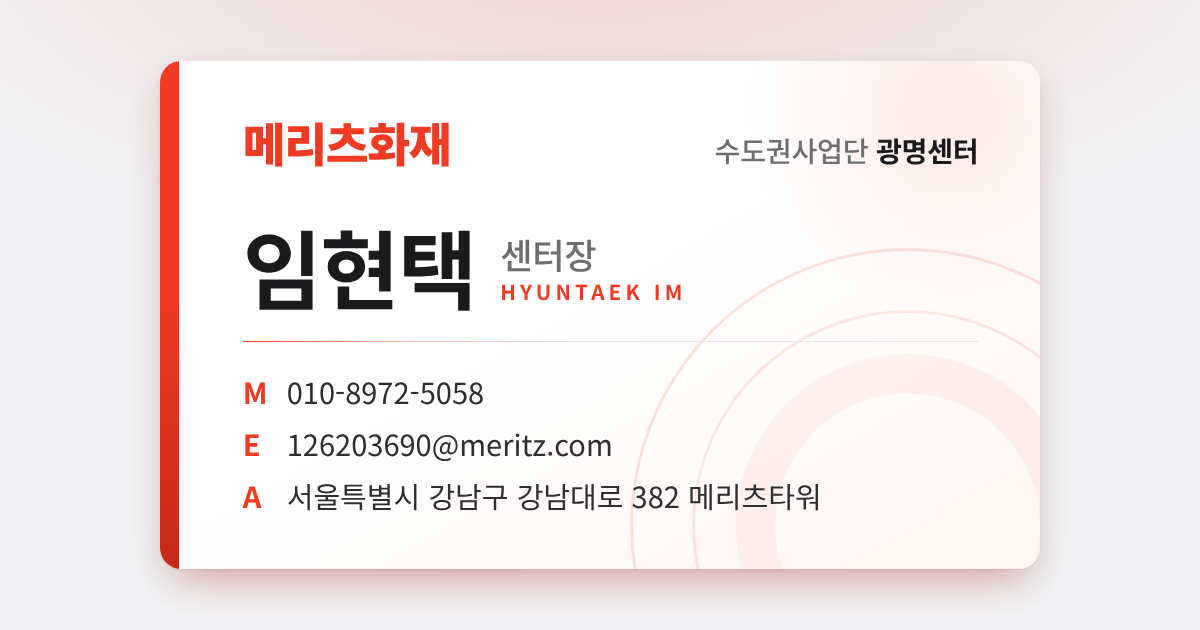
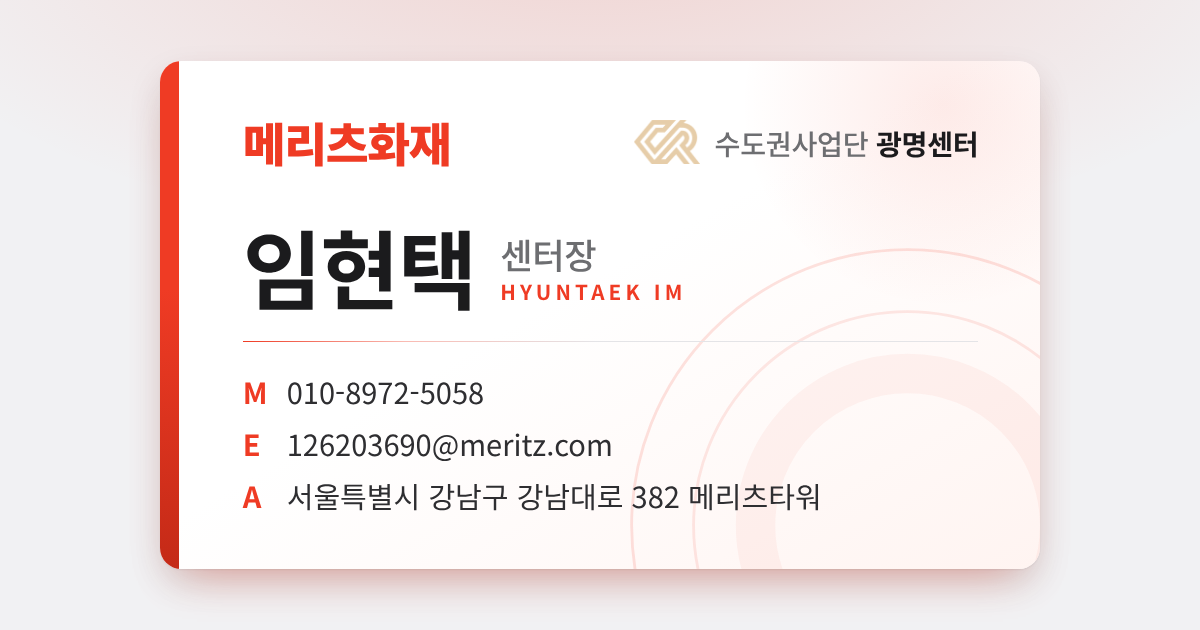
임현택 명함 앞면에 수도권사업단 마크 추가
- capital-region-mark.png: 로고에서 마크만 잘라냄
- 앞면 오른쪽 위 '수도권사업단 광명센터' 앞에 마크 배치
- 카톡 미리보기 이미지도 같이 갱신

Claude-Session: https://claude.ai/code/session_01LevLTkvcs2yUjMXfr1bqTN

Changed region(s): [[0.5242, 0.181, 0.8325, 0.2714]]

diff --git a/imhyuntaek.html b/imhyuntaek.html
@@ -113,9 +113,10 @@
     z-index: -1; pointer-events: none;
   }
 
-  .top { display: flex; justify-content: space-between; align-items: baseline; }
+  .top { display: flex; justify-content: space-between; align-items: center; }
   .brand { color: #EF3B24; font-weight: 900; font-size: 5.3cqw; letter-spacing: -0.03em; line-height: 1; }
-  .org { color: #6D6E71; font-size: 3.2cqw; font-weight: 500; letter-spacing: -0.01em; }
+  .org { color: #6D6E71; font-size: 3.2cqw; font-weight: 500; letter-spacing: -0.01em; display: flex; align-items: center; gap: 1.6cqw; }
+  .org .mark { height: 5cqw; width: auto; display: block; flex: none; }
   .org b { color: #1B1B1D; font-weight: 700; }
 
   .who { margin-top: auto; display: flex; align-items: flex-end; gap: 2.8cqw; }
@@ -246,7 +247,7 @@
       <div class="glow"></div>
       <div class="top">
         <div class="brand">메리츠화재</div>
-        <div class="org">수도권사업단 <b>광명센터</b></div>
+        <div class="org"><img class="mark" src="capital-region-mark.png" alt="수도권사업단 로고"><span>수도권사업단 <b>광명센터</b></span></div>
       </div>
       <div class="who">
         <h1 class="name">임현택</h1>
